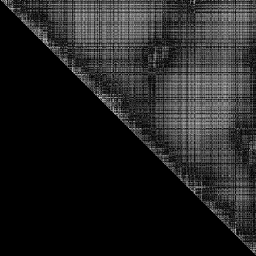
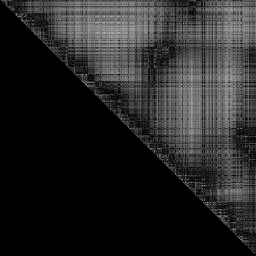
fixed hard code bug

Changed region(s): [[0.0, 0.0, 1.0, 1.0]]

diff --git a/main.py b/main.py
@@ -6,14 +6,13 @@ from matrix_maker import get_gt_matrix, get_sim_matrix, get_error_matrix
 model_list = [
     'vit_pe_spatial_large_patch14_448.fb', 
                   'convnextv2_base.fcmae_ft_in22k_in1k_384',
-                  'vit_base_patch14_dinov2.lvd142m',
                   'vit_base_patch16_rope_mixed_ape_224.naver_in1k',
                   'vit_base_r50_s16_224.orig_in21k',
                   'vit_pe_core_large_patch14_336.fb',
                   'vit_pe_spatial_large_patch14_448.fb',
-                  'hf-hub:MahmoodLab/uni'
+                  'vit_base_patch14_dinov2.lvd142m'
                   ]
-folder_name = 'shapespark'
+folder_name = 'harmony'
 if __name__ == "__main__":
     for model_name in model_list:
         

diff --git a/models.py b/models.py
@@ -3,7 +3,7 @@ import torch
 import numpy as np
 def load_model(model_name):
     model = timm.create_model(
-        'vit_base_patch14_dinov2.lvd142m',
+        model_name,
         pretrained=True,
         num_classes=0,  # remove classifier nn.Linear
     )

diff --git a/README.md b/README.md
@@ -11,9 +11,6 @@ Models tested:
 4. [vit_base_r50_s16_224.orig_in21k](https://huggingface.co/timm/vit_base_r50_s16_224.orig_in21k)
 5. [vit_pe_spatial_large_patch14_448.fb](https://huggingface.co/timm/vit_pe_spatial_large_patch14_448.fb)
 6. [vit_base_patch14_dinov2.lvd142m](https://huggingface.co/timm/vit_base_patch14_dinov2.lvd142m)
-7. [MahmoodLab/uni](https://huggingface.co/MahmoodLab/UNI)
-
-
 
 
 errors/<data_name>: contains error matrix images for different models.
